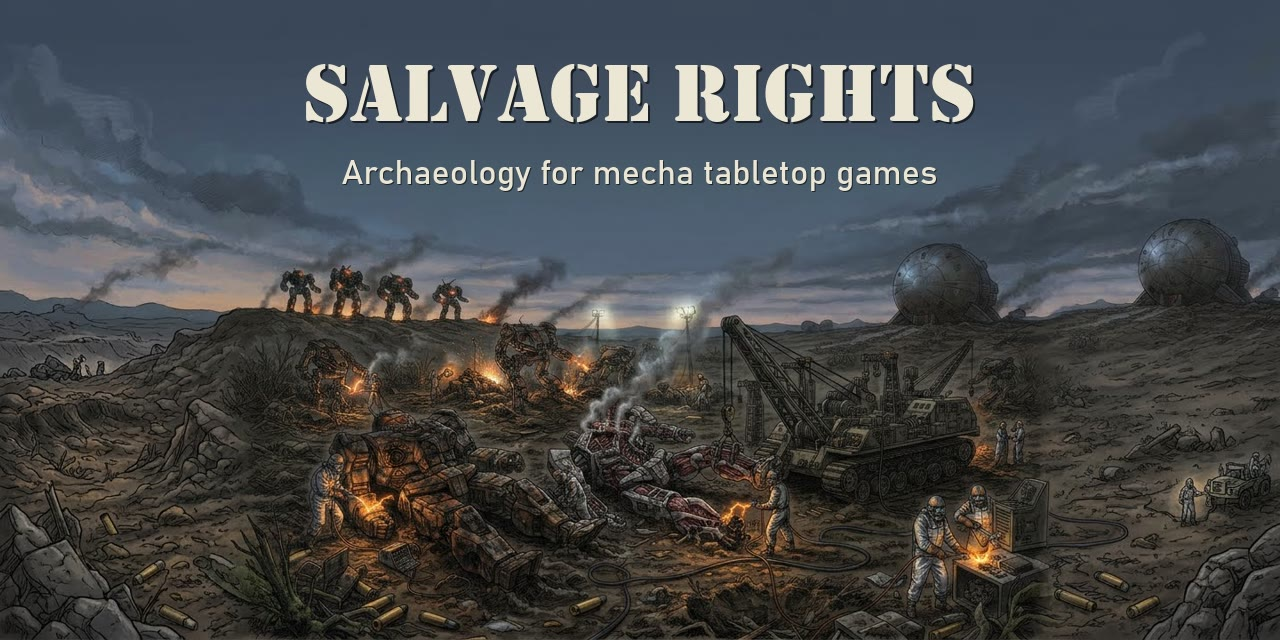
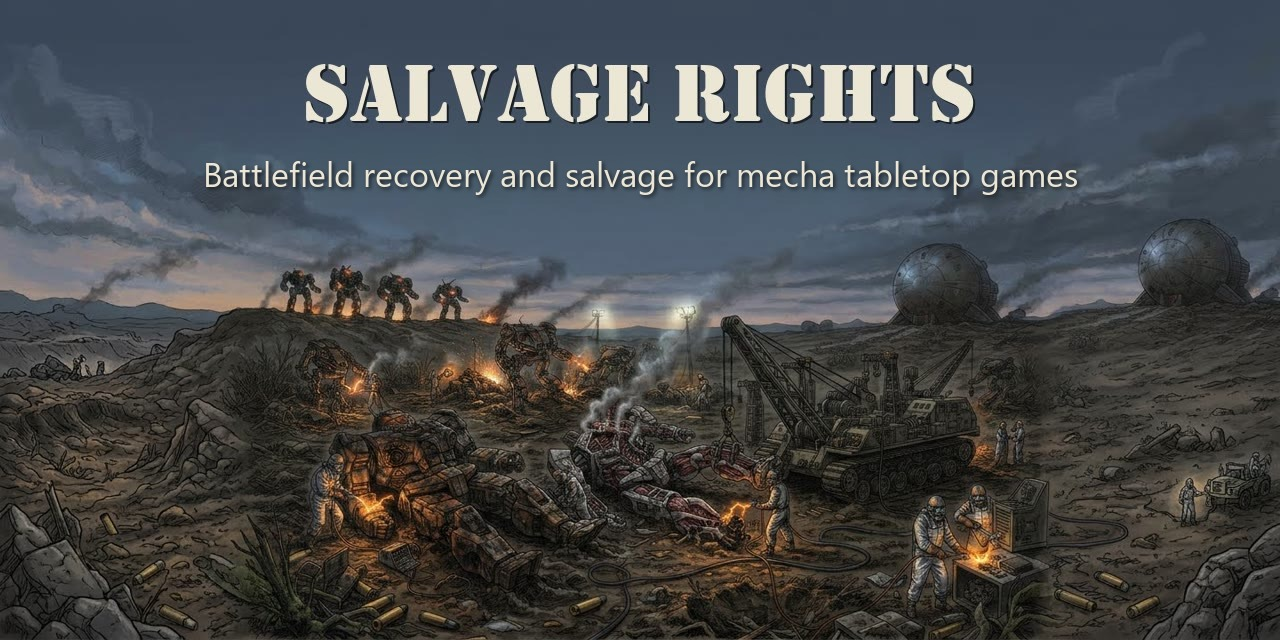
Landing, README and share card: battlefield recovery and salvage replaces archaeology

Changed region(s): [[0.1562, 0.25, 0.8438, 0.3125]]

diff --git a/packages/host/src/pages/Landing.tsx b/packages/host/src/pages/Landing.tsx
@@ -29,9 +29,9 @@ export function Landing({ families }: { families: FamilyManifest[] }) {
     <div className="sr-landing">
       <section className="sr-landing__who">
         <p className="sr-landing__tag">WHO WE ARE</p>
-        <h1>Archaeology for mecha tabletop games.</h1>
+        <h1>Battlefield recovery and salvage for mecha tabletop games.</h1>
         <p className="sr-landing__lead">
-          We dig up the units, equipment and rules of mecha games, edition by edition, so they are not lost. Then we
+          We recover and salvage the units, equipment and rules of mecha games, edition by edition, so they are not lost. Then we
           give you the tools to build with them and play them, on whatever you have in your hand.
         </p>
         <p className="sr-landing__note">

diff --git a/packages/host/e2e/shell.spec.ts b/packages/host/e2e/shell.spec.ts
@@ -4,7 +4,7 @@ import { DEV, FREE, expect, tabTo, test } from "./fixtures";
 test.describe("dev edition", () => {
   test("the landing page shows two tiles and the first link of the one with several games opens that game's page", async ({ page }) => {
     await page.goto(`${DEV}/`);
-    await expect(page.getByRole("heading", { level: 1 })).toHaveText("Archaeology for mecha tabletop games.");
+    await expect(page.getByRole("heading", { level: 1 })).toHaveText("Battlefield recovery and salvage for mecha tabletop games.");
     await expect(page.getByRole("heading", { name: "Choose your games" })).toBeVisible();
     const tiles = page.getByTestId("family-tile");
     await expect(tiles).toHaveCount(2);

diff --git a/packages/host/src/App.test.tsx b/packages/host/src/App.test.tsx
@@ -160,7 +160,7 @@ describe("host frame", () => {
     const store = await openStore("host");
     await saveSettings(store, { ...DEFAULT_SETTINGS, theme: "dark" });
     renderAt("/");
-    await screen.findByRole("heading", { name: "Archaeology for mecha tabletop games." });
+    await screen.findByRole("heading", { name: "Battlefield recovery and salvage for mecha tabletop games." });
     await waitFor(() => {
       expect(document.body.classList.contains("dark")).toBe(true);
     });

diff --git a/README.md b/README.md
@@ -1,6 +1,6 @@
 # Salvage Rights
 
-Archaeology for mecha tabletop games. We dig up the units, equipment and rules of mecha games, edition by edition, so they are not lost. Then we give you the tools to build with them and play them, on whatever you have in your hand.
+Battlefield recovery and salvage for mecha tabletop games. We recover and salvage the units, equipment and rules of mecha games, edition by edition, so they are not lost. Then we give you the tools to build with them and play them, on whatever you have in your hand.
 
 ## Running it
 
